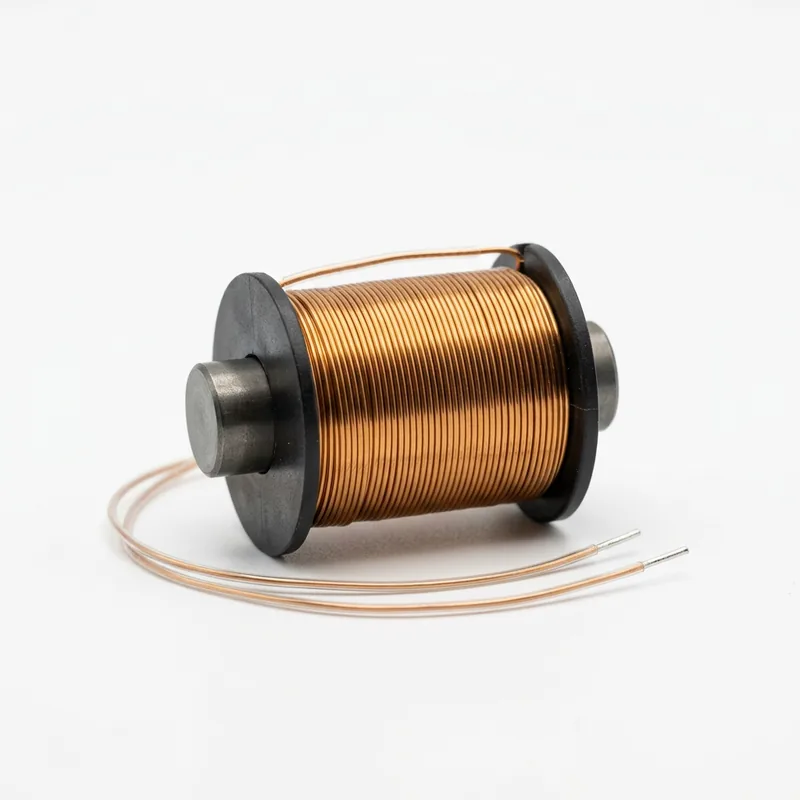
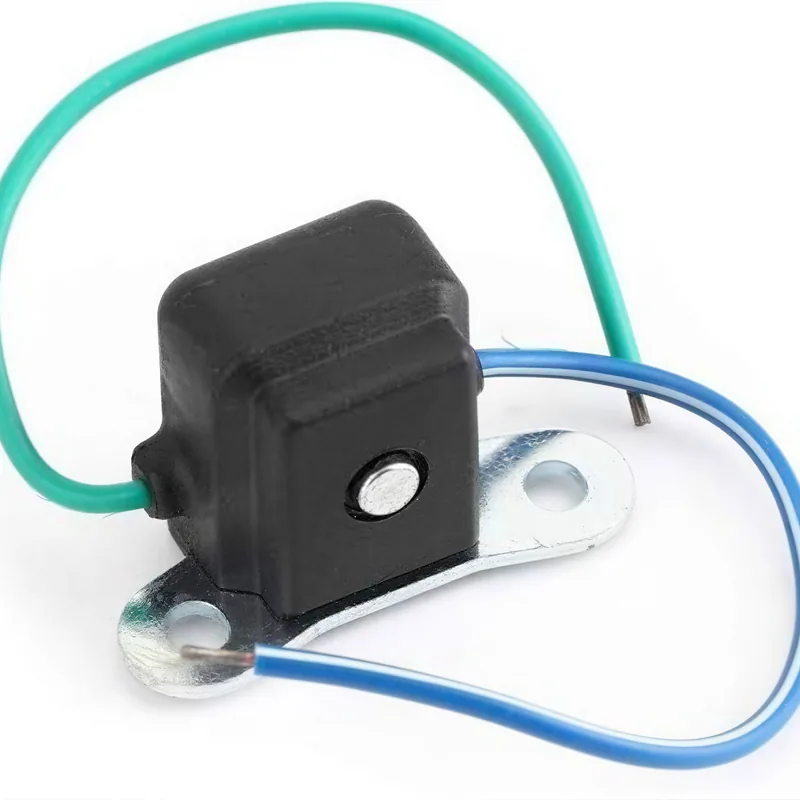
Use real pick-up/pulser coil photos; split them into their own group
Replace the generated pick-up card with a real photo, add a Pulser Coil
card, and give the two genuine photos their own Pick-Up & Pulser Coils
group. The remaining Solenoid/MCB/Defrost-Timer group keeps the three
generated cards and the "representative images" note.

diff --git a/products.html b/products.html
@@ -131,9 +131,14 @@
             <figure class="wg-item"><img src="images/stator-coil-assembly-800sq.webp" alt="Wound stator coil assembly in its casing" width="800" height="800" loading="lazy" /><figcaption>Stator Coil Assembly</figcaption></figure>
           </div>
 
-          <h3 class="comp-group reveal">Pick-up, Solenoid, MCB &amp; Defrost-Timer Coils</h3>
+          <h3 class="comp-group reveal">Pick-Up &amp; Pulser Coils</h3>
           <div class="wind-gallery reveal">
-            <figure class="wg-item"><img src="images/pickup-coil-800sq.webp" alt="Pick-up coil wound on a bobbin with ferromagnetic core" width="800" height="800" loading="lazy" /><figcaption>Pick-Up Coil</figcaption></figure>
+            <figure class="wg-item"><img src="images/pickup-coil-800sq.webp" alt="Moulded pick-up coil on a mounting bracket with lead wires" width="800" height="800" loading="lazy" /><figcaption>Pick-Up Coil</figcaption></figure>
+            <figure class="wg-item"><img src="images/pulser-coil-800sq.webp" alt="Pulser coil on a mounting bracket with lead wires" width="800" height="800" loading="lazy" /><figcaption>Pulser Coil</figcaption></figure>
+          </div>
+
+          <h3 class="comp-group reveal">Solenoid, MCB &amp; Defrost-Timer Coils</h3>
+          <div class="wind-gallery reveal">
             <figure class="wg-item"><img src="images/ep-solenoid-coil-800sq.webp" alt="EP solenoid coil in a moulded housing with spade terminals" width="800" height="800" loading="lazy" /><figcaption>EP Solenoid Coil</figcaption></figure>
             <figure class="wg-item"><img src="images/mcb-coil-800sq.webp" alt="MCB trip coil wound on a slim bobbin with iron core" width="800" height="800" loading="lazy" /><figcaption>MCB Coil</figcaption></figure>
             <figure class="wg-item"><img src="images/defrost-timer-coil-800sq.webp" alt="Defrost-timer coil wound on a rectangular bobbin" width="800" height="800" loading="lazy" /><figcaption>Defrost-Timer Coil</figcaption></figure>
